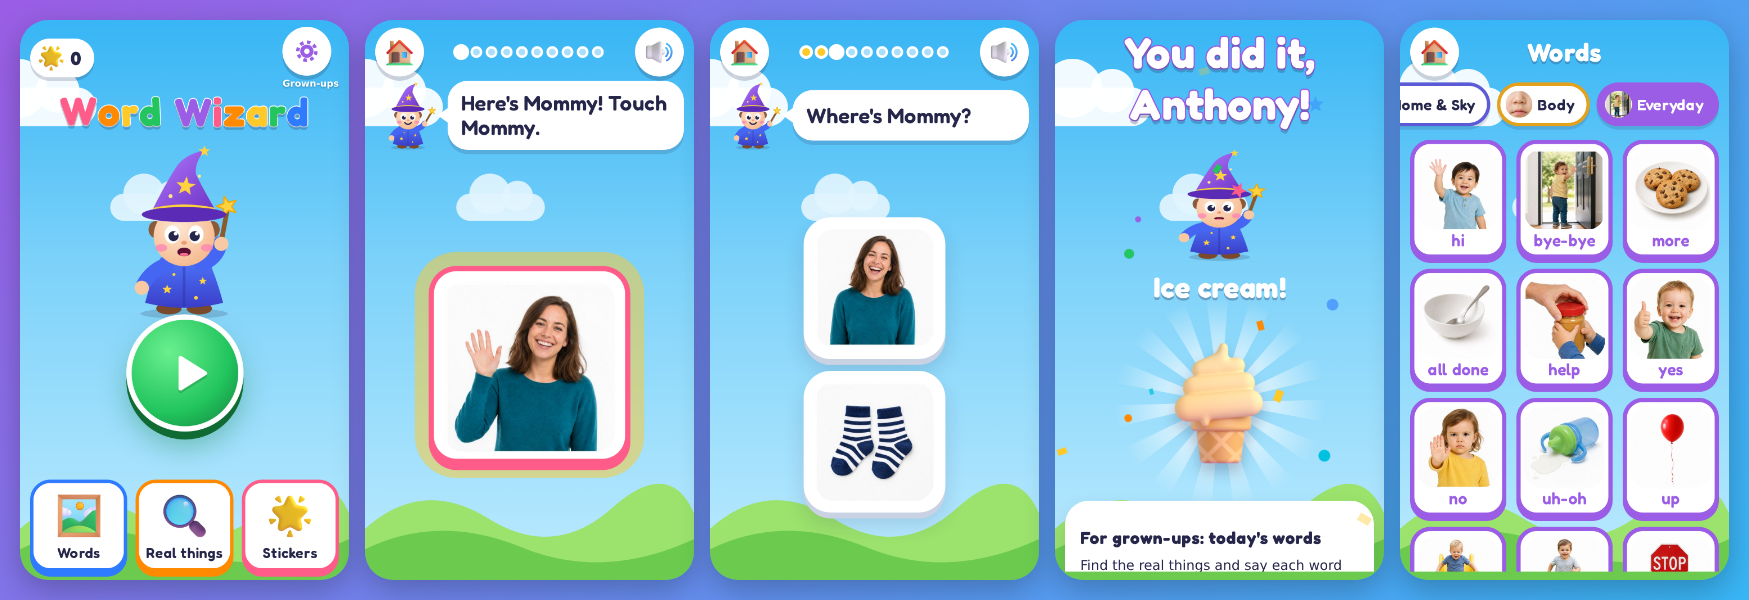
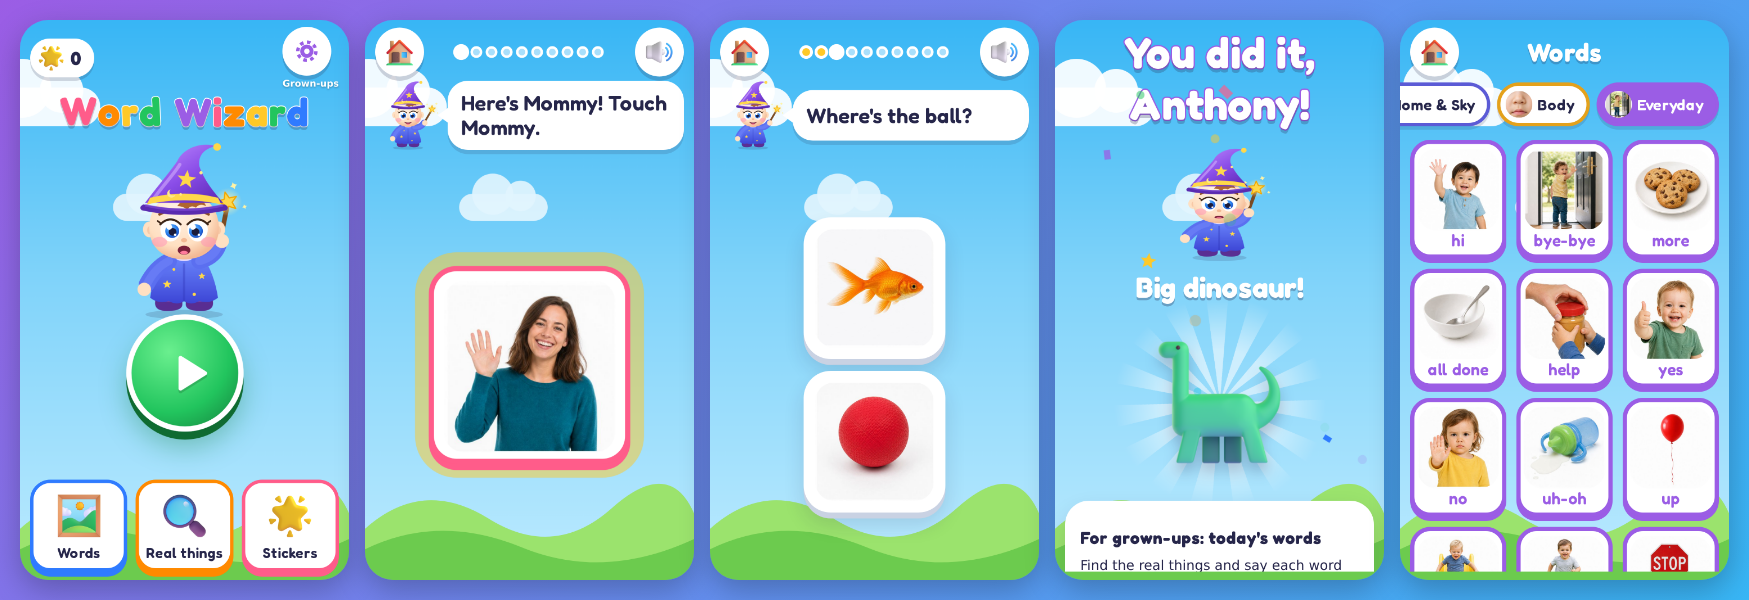
Redraw the wizard cuter, in a Disney-cartoon style
A big round head on a small body, large blue eyes with two highlights
and lashes, soft arched brows, rosy cheeks, a tiny nose, a wide grin
with a little tongue, a swoosh of hair under a floppy oversized hat
with a curling tip, big sleeves with tiny hands, round shoes, and a
glowing wand with sparkles. The arm pivots move to the new shoulders.
App icons and the README preview are re-rendered.

Claude-Session: https://claude.ai/code/session_01FHRiZ2VEXhmyj4g9djwsCq

diff --git a/js/app.js b/js/app.js
@@ -248,64 +248,105 @@
     '<svg viewBox="0 0 200 210" aria-hidden="true">' +
     '<defs>' +
     '<linearGradient id="wizRobe" x1="0" y1="0" x2="0" y2="1">' +
-    '<stop offset="0" stop-color="#4F7BFF"/>' +
-    '<stop offset="1" stop-color="#3B3FC9"/>' +
+    '<stop offset="0" stop-color="#6E8BFF"/>' +
+    '<stop offset="1" stop-color="#3D46D6"/>' +
     '</linearGradient>' +
-    '<linearGradient id="wizHat" x1="0" y1="0" x2="1" y2="1">' +
-    '<stop offset="0" stop-color="#B47CFF"/>' +
-    '<stop offset="1" stop-color="#6A2FC2"/>' +
+    '<linearGradient id="wizHat" x1="0.1" y1="0" x2="0.9" y2="1">' +
+    '<stop offset="0" stop-color="#C08CFF"/>' +
+    '<stop offset="0.55" stop-color="#8A4DE8"/>' +
+    '<stop offset="1" stop-color="#5E2BB8"/>' +
     '</linearGradient>' +
-    '<radialGradient id="wizFace" cx="40%" cy="35%" r="70%">' +
-    '<stop offset="0" stop-color="#FFE7D3"/>' +
-    '<stop offset="1" stop-color="#F6B98E"/>' +
+    '<radialGradient id="wizFace" cx="42%" cy="34%" r="66%">' +
+    '<stop offset="0" stop-color="#FFF0E2"/>' +
+    '<stop offset="0.7" stop-color="#FFE0C2"/>' +
+    '<stop offset="1" stop-color="#F4B994"/>' +
+    '</radialGradient>' +
+    '<radialGradient id="wizIris" cx="40%" cy="35%" r="65%">' +
+    '<stop offset="0" stop-color="#7CC4FF"/>' +
+    '<stop offset="0.6" stop-color="#2F86F2"/>' +
+    '<stop offset="1" stop-color="#1A4FC4"/>' +
+    '</radialGradient>' +
+    '<radialGradient id="wizGlow" cx="50%" cy="50%" r="50%">' +
+    '<stop offset="0" stop-color="#FFF6B0" stop-opacity=".9"/>' +
+    '<stop offset="1" stop-color="#FFF6B0" stop-opacity="0"/>' +
     '</radialGradient>' +
     '</defs>' +
-    '<ellipse cx="100" cy="203" rx="52" ry="6" fill="rgba(38,38,74,.18)"/>' +
+    '<ellipse cx="100" cy="204" rx="46" ry="5.5" fill="rgba(38,38,74,.16)"/>' +
     '<g class="wiz-bob">' +
-    '<ellipse cx="82" cy="199" rx="15" ry="7" fill="#7A4A2A"/>' +
-    '<ellipse cx="118" cy="199" rx="15" ry="7" fill="#7A4A2A"/>' +
-    '<path d="M72 138 Q100 128 128 138 Q140 168 146 192 Q100 204 54 192 Q60 168 72 138Z" fill="url(#wizRobe)"/>' +
-    '<path d="M100 150 L100 196" stroke="#2F2FA8" stroke-width="3" stroke-linecap="round" opacity=".45"/>' +
-    '<path d="M80.0 170.0 L81.5 173.9 L85.7 174.1 L82.5 176.8 L83.5 180.9 L80.0 178.6 L76.5 180.9 L77.5 176.8 L74.3 174.1 L78.5 173.9Z" fill="#FFD23F"/>' +
-    '<path d="M122.0 161.0 L123.3 164.2 L126.8 164.5 L124.1 166.7 L124.9 170.0 L122.0 168.2 L119.1 170.0 L119.9 166.7 L117.2 164.5 L120.7 164.2Z" fill="#FFD23F"/>' +
-    '<circle cx="114" cy="186" r="2.2" fill="#FFD23F"/>' +
-    '<circle cx="88" cy="158" r="1.8" fill="#FFD23F"/>' +
+    '<path d="M66 190 Q64 202 80 202 Q98 202 98 194 L98 186 L70 186 Q62 184 66 190Z" fill="#5A2E93"/>' +
+    '<path d="M134 190 Q136 202 120 202 Q102 202 102 194 L102 186 L130 186 Q138 184 134 190Z" fill="#5A2E93"/>' +
+    '<ellipse cx="82" cy="188" rx="9" ry="3" fill="#7A48B8" opacity=".8"/>' +
+    '<ellipse cx="118" cy="188" rx="9" ry="3" fill="#7A48B8" opacity=".8"/>' +
+    '<path d="M78 136 Q100 128 122 136 Q136 158 140 186 Q130 194 118 190 Q108 196 100 190 Q92 196 82 190 Q70 194 60 186 Q64 158 78 136Z" fill="url(#wizRobe)"/>' +
+    '<path d="M100 146 L100 190" stroke="#2F35B8" stroke-width="2.6" stroke-linecap="round" opacity=".35"/>' +
+    '<path d="M80.0 164.5 L81.4 168.1 L85.2 168.3 L82.2 170.7 L83.2 174.4 L80.0 172.3 L76.8 174.4 L77.8 170.7 L74.8 168.3 L78.6 168.1Z" fill="#FFD84A"/>' +
+    '<path d="M121.0 155.4 L122.2 158.4 L125.4 158.6 L122.9 160.6 L123.7 163.7 L121.0 162.0 L118.3 163.7 L119.1 160.6 L116.6 158.6 L119.8 158.4Z" fill="#FFD84A"/>' +
+    '<circle cx="112" cy="182" r="2" fill="#FFD84A"/>' +
+    '<circle cx="88" cy="152" r="1.7" fill="#FFD84A"/>' +
+    '<path d="M84 136 Q100 148 116 136 Q100 132 84 136Z" fill="#E9DDFF"/>' +
     '<g class="wiz-arm-l">' +
-    '<path d="M80 146 Q62 152 52 170" stroke="#4466F2" stroke-width="17" stroke-linecap="round" fill="none"/>' +
-    '<circle cx="50" cy="174" r="8.5" fill="#F9C9A4"/>' +
+    '<path d="M82 142 Q66 150 56 170" stroke="#5B6FF0" stroke-width="19" stroke-linecap="round" fill="none"/>' +
+    '<path d="M82 142 Q66 150 56 170" stroke="#7D93FF" stroke-width="10" stroke-linecap="round" fill="none" opacity=".35"/>' +
+    '<circle cx="53" cy="176" r="8" fill="#FFE0C2"/>' +
     '</g>' +
     '<g class="wiz-arm-r">' +
-    '<path d="M120 146 Q140 146 150 130" stroke="#4466F2" stroke-width="17" stroke-linecap="round" fill="none"/>' +
-    '<path d="M151 130 L171 96" stroke="#8B5A2B" stroke-width="5.5" stroke-linecap="round"/>' +
-    '<path class="wiz-wand" d="M173.0 79.0 L175.9 87.0 L184.4 87.3 L177.8 92.5 L180.1 100.7 L173.0 96.0 L165.9 100.7 L168.2 92.5 L161.6 87.3 L170.1 87.0Z" fill="#FFD23F" stroke="#F2A900" stroke-width="1.5" stroke-linejoin="round"/>' +
-    '<circle cx="151" cy="131" r="8.5" fill="#F9C9A4"/>' +
+    '<path d="M118 142 Q138 144 148 128" stroke="#5B6FF0" stroke-width="19" stroke-linecap="round" fill="none"/>' +
+    '<path d="M118 142 Q138 144 148 128" stroke="#7D93FF" stroke-width="10" stroke-linecap="round" fill="none" opacity=".35"/>' +
+    '<path d="M150 126 L170 92" stroke="#7A4A22" stroke-width="5.5" stroke-linecap="round"/>' +
+    '<circle cx="173" cy="86" r="17" fill="url(#wizGlow)"/>' +
+    '<path class="wiz-wand" d="M173.0 74.5 L175.9 82.0 L183.9 82.4 L177.8 87.5 L179.8 95.3 L173.0 91.0 L166.2 95.3 L168.2 87.5 L162.1 82.4 L170.1 82.0Z" fill="#FFD84A" stroke="#F2A600" stroke-width="1.4" stroke-linejoin="round"/>' +
+    '<path d="M186 65.5 Q187 69 190.5 70 Q187 71 186 74.5 Q185 71 181.5 70 Q185 69 186 65.5Z" fill="#FFF3A6"/>' +
+    '<path d="M158 68.5 Q158.8 71.2 161.5 72 Q158.8 72.8 158 75.5 Q157.2 72.8 154.5 72 Q157.2 71.2 158 68.5Z" fill="#FFF3A6"/>' +
+    '<path d="M190 95 Q190.7 97.3 193 98 Q190.7 98.7 190 101 Q189.3 98.7 187 98 Q189.3 97.3 190 95Z" fill="#FFF3A6"/>' +
+    '<circle cx="151" cy="128" r="8.5" fill="#FFE0C2"/>' +
     '</g>' +
-    '<ellipse cx="66" cy="104" rx="8" ry="10" fill="#8A5A3A"/>' +
-    '<ellipse cx="134" cy="104" rx="8" ry="10" fill="#8A5A3A"/>' +
-    '<circle cx="100" cy="112" r="36" fill="url(#wizFace)"/>' +
+    '<rect x="93" y="126" width="14" height="14" rx="5" fill="#F4B994"/>' +
+    '<ellipse cx="59" cy="104" rx="7.5" ry="9.5" fill="#FFE0C2"/>' +
+    '<ellipse cx="141" cy="104" rx="7.5" ry="9.5" fill="#FFE0C2"/>' +
+    '<ellipse cx="60" cy="105" rx="3.5" ry="5" fill="#F4B994" opacity=".6"/>' +
+    '<ellipse cx="140" cy="105" rx="3.5" ry="5" fill="#F4B994" opacity=".6"/>' +
+    '<path d="M100 60 C 128 60, 142 82, 141 104 C 140 128, 122 140, 100 140 C 78 140, 60 128, 59 104 C 58 82, 72 60, 100 60Z" fill="url(#wizFace)"/>' +
+    '<ellipse cx="86" cy="76" rx="16" ry="7" fill="#fff" opacity=".22"/>' +
+    '<path d="M92 76 Q100 64 112 70 Q122 66 126 76 Q118 72 114 78 Q108 74 104 80 Q98 76 92 76Z" fill="#B0652E"/>' +
+    '<path d="M71 86 Q83 79 95 84" stroke="#8B4A1E" stroke-width="3" fill="none" stroke-linecap="round"/>' +
+    '<path d="M105 84 Q117 79 129 86" stroke="#8B4A1E" stroke-width="3" fill="none" stroke-linecap="round"/>' +
     '<g class="wiz-eyes">' +
-    '<ellipse cx="86" cy="110" rx="9" ry="11" fill="#fff"/>' +
-    '<ellipse cx="114" cy="110" rx="9" ry="11" fill="#fff"/>' +
-    '<circle cx="87.5" cy="112" r="6" fill="#26264A"/>' +
-    '<circle cx="112.5" cy="112" r="6" fill="#26264A"/>' +
-    '<circle cx="90" cy="109" r="2.2" fill="#fff"/>' +
-    '<circle cx="115" cy="109" r="2.2" fill="#fff"/>' +
+    '<ellipse cx="84" cy="104" rx="12" ry="14.5" fill="#fff"/>' +
+    '<ellipse cx="116" cy="104" rx="12" ry="14.5" fill="#fff"/>' +
+    '<circle cx="86" cy="106" r="8.2" fill="url(#wizIris)"/>' +
+    '<circle cx="114" cy="106" r="8.2" fill="url(#wizIris)"/>' +
+    '<circle cx="86.5" cy="107" r="4.6" fill="#1B1B3A"/>' +
+    '<circle cx="113.5" cy="107" r="4.6" fill="#1B1B3A"/>' +
+    '<circle cx="82.5" cy="101" r="3.4" fill="#fff"/>' +
+    '<circle cx="110.5" cy="101" r="3.4" fill="#fff"/>' +
+    '<circle cx="89.5" cy="110.5" r="1.5" fill="#fff"/>' +
+    '<circle cx="117.5" cy="110.5" r="1.5" fill="#fff"/>' +
+    '<path d="M72 98 Q84 86 96 98" stroke="#3B2314" stroke-width="2.4" fill="none" stroke-linecap="round"/>' +
+    '<path d="M104 98 Q116 86 128 98" stroke="#3B2314" stroke-width="2.4" fill="none" stroke-linecap="round"/>' +
+    '<path d="M73 97 L69 94 M127 97 L131 94" stroke="#3B2314" stroke-width="2" stroke-linecap="round"/>' +
     '</g>' +
-    '<ellipse cx="100" cy="120" rx="3.4" ry="2.4" fill="#EE9C74"/>' +
-    '<ellipse cx="73" cy="126" rx="7" ry="4.5" fill="#FF7EB6" opacity=".7"/>' +
-    '<ellipse cx="127" cy="126" rx="7" ry="4.5" fill="#FF7EB6" opacity=".7"/>' +
-    '<path class="wiz-smile" d="M90 127 Q100 138 110 127" stroke="#26264A" stroke-width="4" fill="none" stroke-linecap="round"/>' +
+    '<ellipse cx="100" cy="117" rx="3.6" ry="2.6" fill="#F4B994"/>' +
+    '<ellipse cx="71" cy="119" rx="9" ry="6" fill="#FF8FB8" opacity=".5"/>' +
+    '<ellipse cx="129" cy="119" rx="9" ry="6" fill="#FF8FB8" opacity=".5"/>' +
+    '<g class="wiz-smile">' +
+    '<path d="M87 124 Q100 139 113 124 Q100 130 87 124Z" fill="#7A1F3A"/>' +
+    '<path d="M89 125 Q100 129 111 125 Q100 128 89 125Z" fill="#fff"/>' +
+    '<path d="M94 131 Q100 137 106 131 Q100 129 94 131Z" fill="#FF7A9C"/>' +
+    '</g>' +
     '<g class="wiz-mouth">' +
-    '<ellipse cx="100" cy="131" rx="8" ry="7" fill="#5A1033"/>' +
-    '<ellipse cx="100" cy="135" rx="5" ry="2.6" fill="#FF6F91"/>' +
+    '<ellipse cx="100" cy="129" rx="7.5" ry="6.5" fill="#7A1F3A"/>' +
+    '<ellipse cx="100" cy="132.5" rx="4.5" ry="2.6" fill="#FF7A9C"/>' +
     '</g>' +
-    '<path d="M60 86 Q74 56 90 30 Q100 14 124 9 Q112 24 114 38 Q126 62 140 86Z" fill="url(#wizHat)"/>' +
-    '<path d="M64 78 Q100 70 136 78 L139 86 Q100 78 61 86Z" fill="#FFD23F"/>' +
-    '<ellipse cx="100" cy="86" rx="50" ry="9" fill="#5B2BB5"/>' +
-    '<path class="wiz-star" d="M102.0 41.0 L104.7 48.3 L112.5 48.6 L106.4 53.4 L108.5 60.9 L102.0 56.6 L95.5 60.9 L97.6 53.4 L91.5 48.6 L99.3 48.3Z" fill="#FFD23F"/>' +
-    '<circle cx="84" cy="64" r="2.4" fill="#FFE98A"/>' +
-    '<circle cx="118" cy="40" r="2" fill="#FFE98A"/>' +
-    '<path d="M124.0 3.0 L125.8 7.6 L130.7 7.8 L126.9 10.9 L128.1 15.7 L124.0 13.0 L119.9 15.7 L121.1 10.9 L117.3 7.8 L122.2 7.6Z" fill="#FFD23F"/>' +
+    '<path d="M54 72 C 72 48, 84 34, 92 22 C 98 8, 118 -2, 138 4 C 126 6, 116 14, 118 28 C 124 46, 136 60, 146 72Z" fill="url(#wizHat)"/>' +
+    '<path d="M62 70 C 76 50, 88 38, 95 26" stroke="#DDBBFF" stroke-width="4" fill="none" stroke-linecap="round" opacity=".5"/>' +
+    '<path d="M60 66 Q100 56 140 66 L144 74 Q100 64 56 74Z" fill="#FFD84A"/>' +
+    '<path d="M52 74 Q100 84 148 74 Q154 77 150 81 Q100 92 50 81 Q46 77 52 74Z" fill="#5A2BB0"/>' +
+    '<path d="M54 75 Q100 86 146 75" stroke="#7C48D6" stroke-width="3" fill="none" opacity=".7"/>' +
+    '<path class="wiz-star" d="M103.0 33.5 L105.6 40.4 L113.0 40.8 L107.2 45.4 L109.2 52.5 L103.0 48.4 L96.8 52.5 L98.8 45.4 L93.0 40.8 L100.4 40.4Z" fill="#FFD84A"/>' +
+    '<path d="M84 56 A5 5 0 1 0 90 62 A4 4 0 1 1 84 56Z" fill="#FFE98A"/>' +
+    '<circle cx="120" cy="36" r="2" fill="#FFE98A"/>' +
+    '<circle cx="96" cy="62" r="1.6" fill="#FFE98A"/>' +
+    '<circle cx="139" cy="5" r="4.5" fill="#FFD84A"/>' +
     '</g>' +
     '</svg>';
 

diff --git a/css/app.css b/css/app.css
@@ -218,8 +218,8 @@ img { -webkit-user-drag: none; user-drag: none; pointer-events: none; }
 .mascot.talking .wiz-smile { opacity: 0; }
 .mascot.talking .wiz-mouth { opacity: 1; animation: talk 0.22s ease-in-out infinite alternate; }
 .wiz-arm-l, .wiz-arm-r { transform-box: view-box; }
-.wiz-arm-l { transform-origin: 80px 146px; }  /* the shoulders, in the wizard's own coordinates */
-.wiz-arm-r { transform-origin: 120px 146px; }
+.wiz-arm-l { transform-origin: 82px 142px; }  /* the shoulders, in the wizard's own coordinates */
+.wiz-arm-r { transform-origin: 118px 142px; }
 .mascot.waving .wiz-arm-r { animation: arm-wave 0.5s ease-in-out 4 alternate; }
 .mascot.happy .wiz-bob { animation: jump 0.5s ease-out 2; }
 .mascot.happy .wiz-arm-l { animation: arm-up-l 0.5s ease-out 2; }

diff --git a/sw.js b/sw.js
@@ -4,7 +4,7 @@
  * tools/build-sw.js; VERSION changes whenever any file changes, which makes
  * phones fetch the new version.
  */
-const VERSION = '91de4108aa';
+const VERSION = 'f3bf37d4b3';
 const CACHE = 'word-wizard-' + VERSION;
 const ASSETS = [
   // ASSETS-START
